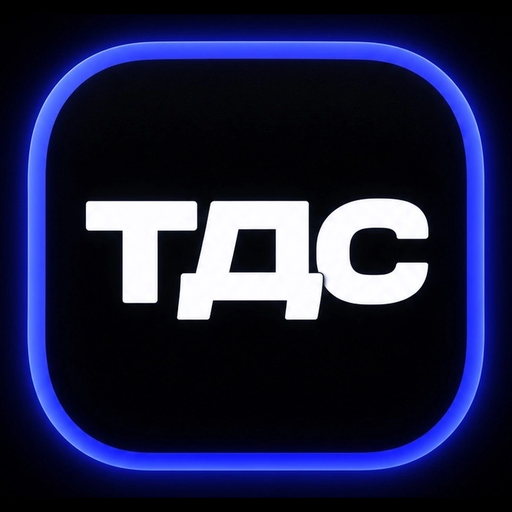
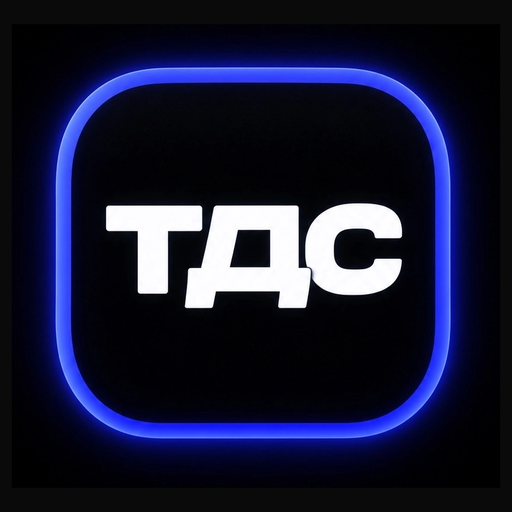
Логотип ТДС без обрезанного свечения, сборка 2026-11-06-33

diff --git a/support/index.html b/support/index.html
@@ -27,8 +27,8 @@
   <link rel="apple-touch-icon" href="/assets/img/apple-touch-icon.png">
   <link rel="manifest" href="/site.webmanifest">
   <link rel="preload" href="/assets/fonts/unbounded-cyrillic-wght-normal.woff2" as="font" type="font/woff2" crossorigin>
-  <link rel="stylesheet" href="/assets/css/site.css?v=2026-11-06-32">
-  <link rel="stylesheet" href="/assets/css/light.css?v=2026-11-06-32">
+  <link rel="stylesheet" href="/assets/css/site.css?v=2026-11-06-33">
+  <link rel="stylesheet" href="/assets/css/light.css?v=2026-11-06-33">
 </head>
 <body data-page="support">
   <div data-header></div>
@@ -134,10 +134,10 @@
 
   <div data-footer></div>
 
-  <script src="/assets/js/data.js?v=2026-11-06-32"></script>
-  <script src="/assets/js/map-data.js?v=2026-11-06-32"></script>
-  <script src="/assets/js/store.js?v=2026-11-06-32"></script>
-  <script src="/assets/js/i18n.js?v=2026-11-06-32"></script>
-  <script src="/assets/js/app.js?v=2026-11-06-32"></script>
+  <script src="/assets/js/data.js?v=2026-11-06-33"></script>
+  <script src="/assets/js/map-data.js?v=2026-11-06-33"></script>
+  <script src="/assets/js/store.js?v=2026-11-06-33"></script>
+  <script src="/assets/js/i18n.js?v=2026-11-06-33"></script>
+  <script src="/assets/js/app.js?v=2026-11-06-33"></script>
 </body>
 </html>

diff --git a/article/index.html b/article/index.html
@@ -27,8 +27,8 @@
   <link rel="apple-touch-icon" href="/assets/img/apple-touch-icon.png">
   <link rel="manifest" href="/site.webmanifest">
   <link rel="preload" href="/assets/fonts/unbounded-cyrillic-wght-normal.woff2" as="font" type="font/woff2" crossorigin>
-  <link rel="stylesheet" href="/assets/css/site.css?v=2026-11-06-32">
-  <link rel="stylesheet" href="/assets/css/light.css?v=2026-11-06-32">
+  <link rel="stylesheet" href="/assets/css/site.css?v=2026-11-06-33">
+  <link rel="stylesheet" href="/assets/css/light.css?v=2026-11-06-33">
 </head>
 <body data-page="article">
   <div data-header></div>
@@ -37,10 +37,10 @@
 
   <div data-footer></div>
 
-  <script src="/assets/js/data.js?v=2026-11-06-32"></script>
-  <script src="/assets/js/map-data.js?v=2026-11-06-32"></script>
-  <script src="/assets/js/store.js?v=2026-11-06-32"></script>
-  <script src="/assets/js/i18n.js?v=2026-11-06-32"></script>
-  <script src="/assets/js/app.js?v=2026-11-06-32"></script>
+  <script src="/assets/js/data.js?v=2026-11-06-33"></script>
+  <script src="/assets/js/map-data.js?v=2026-11-06-33"></script>
+  <script src="/assets/js/store.js?v=2026-11-06-33"></script>
+  <script src="/assets/js/i18n.js?v=2026-11-06-33"></script>
+  <script src="/assets/js/app.js?v=2026-11-06-33"></script>
 </body>
 </html>

diff --git a/profile/index.html b/profile/index.html
@@ -29,8 +29,8 @@
   <link rel="apple-touch-icon" href="/assets/img/apple-touch-icon.png">
   <link rel="manifest" href="/site.webmanifest">
   <link rel="preload" href="/assets/fonts/unbounded-cyrillic-wght-normal.woff2" as="font" type="font/woff2" crossorigin>
-  <link rel="stylesheet" href="/assets/css/site.css?v=2026-11-06-32">
-  <link rel="stylesheet" href="/assets/css/light.css?v=2026-11-06-32">
+  <link rel="stylesheet" href="/assets/css/site.css?v=2026-11-06-33">
+  <link rel="stylesheet" href="/assets/css/light.css?v=2026-11-06-33">
 </head>
 <body data-page="profile">
   <div data-header></div>
@@ -43,10 +43,10 @@
 
   <div data-footer></div>
 
-  <script src="/assets/js/data.js?v=2026-11-06-32"></script>
-  <script src="/assets/js/map-data.js?v=2026-11-06-32"></script>
-  <script src="/assets/js/store.js?v=2026-11-06-32"></script>
-  <script src="/assets/js/i18n.js?v=2026-11-06-32"></script>
-  <script src="/assets/js/app.js?v=2026-11-06-32"></script>
+  <script src="/assets/js/data.js?v=2026-11-06-33"></script>
+  <script src="/assets/js/map-data.js?v=2026-11-06-33"></script>
+  <script src="/assets/js/store.js?v=2026-11-06-33"></script>
+  <script src="/assets/js/i18n.js?v=2026-11-06-33"></script>
+  <script src="/assets/js/app.js?v=2026-11-06-33"></script>
 </body>
 </html>

diff --git a/join/index.html b/join/index.html
@@ -27,8 +27,8 @@
   <link rel="apple-touch-icon" href="/assets/img/apple-touch-icon.png">
   <link rel="manifest" href="/site.webmanifest">
   <link rel="preload" href="/assets/fonts/unbounded-cyrillic-wght-normal.woff2" as="font" type="font/woff2" crossorigin>
-  <link rel="stylesheet" href="/assets/css/site.css?v=2026-11-06-32">
-  <link rel="stylesheet" href="/assets/css/light.css?v=2026-11-06-32">
+  <link rel="stylesheet" href="/assets/css/site.css?v=2026-11-06-33">
+  <link rel="stylesheet" href="/assets/css/light.css?v=2026-11-06-33">
 </head>
 <body data-page="auth">
   <div data-header></div>
@@ -168,10 +168,10 @@
 
   <div data-footer></div>
 
-  <script src="/assets/js/data.js?v=2026-11-06-32"></script>
-  <script src="/assets/js/map-data.js?v=2026-11-06-32"></script>
-  <script src="/assets/js/store.js?v=2026-11-06-32"></script>
-  <script src="/assets/js/i18n.js?v=2026-11-06-32"></script>
-  <script src="/assets/js/app.js?v=2026-11-06-32"></script>
+  <script src="/assets/js/data.js?v=2026-11-06-33"></script>
+  <script src="/assets/js/map-data.js?v=2026-11-06-33"></script>
+  <script src="/assets/js/store.js?v=2026-11-06-33"></script>
+  <script src="/assets/js/i18n.js?v=2026-11-06-33"></script>
+  <script src="/assets/js/app.js?v=2026-11-06-33"></script>
 </body>
 </html>

diff --git a/news/index.html b/news/index.html
@@ -27,8 +27,8 @@
   <link rel="apple-touch-icon" href="/assets/img/apple-touch-icon.png">
   <link rel="manifest" href="/site.webmanifest">
   <link rel="preload" href="/assets/fonts/unbounded-cyrillic-wght-normal.woff2" as="font" type="font/woff2" crossorigin>
-  <link rel="stylesheet" href="/assets/css/site.css?v=2026-11-06-32">
-  <link rel="stylesheet" href="/assets/css/light.css?v=2026-11-06-32">
+  <link rel="stylesheet" href="/assets/css/site.css?v=2026-11-06-33">
+  <link rel="stylesheet" href="/assets/css/light.css?v=2026-11-06-33">
 </head>
 <body data-page="news">
   <div data-header></div>
@@ -105,10 +105,10 @@
 
   <div data-footer></div>
 
-  <script src="/assets/js/data.js?v=2026-11-06-32"></script>
-  <script src="/assets/js/map-data.js?v=2026-11-06-32"></script>
-  <script src="/assets/js/store.js?v=2026-11-06-32"></script>
-  <script src="/assets/js/i18n.js?v=2026-11-06-32"></script>
-  <script src="/assets/js/app.js?v=2026-11-06-32"></script>
+  <script src="/assets/js/data.js?v=2026-11-06-33"></script>
+  <script src="/assets/js/map-data.js?v=2026-11-06-33"></script>
+  <script src="/assets/js/store.js?v=2026-11-06-33"></script>
+  <script src="/assets/js/i18n.js?v=2026-11-06-33"></script>
+  <script src="/assets/js/app.js?v=2026-11-06-33"></script>
 </body>
 </html>

diff --git a/region/index.html b/region/index.html
@@ -27,8 +27,8 @@
   <link rel="apple-touch-icon" href="/assets/img/apple-touch-icon.png">
   <link rel="manifest" href="/site.webmanifest">
   <link rel="preload" href="/assets/fonts/unbounded-cyrillic-wght-normal.woff2" as="font" type="font/woff2" crossorigin>
-  <link rel="stylesheet" href="/assets/css/site.css?v=2026-11-06-32">
-  <link rel="stylesheet" href="/assets/css/light.css?v=2026-11-06-32">
+  <link rel="stylesheet" href="/assets/css/site.css?v=2026-11-06-33">
+  <link rel="stylesheet" href="/assets/css/light.css?v=2026-11-06-33">
 </head>
 <body data-page="region">
   <div data-header></div>
@@ -37,10 +37,10 @@
 
   <div data-footer></div>
 
-  <script src="/assets/js/data.js?v=2026-11-06-32"></script>
-  <script src="/assets/js/map-data.js?v=2026-11-06-32"></script>
-  <script src="/assets/js/store.js?v=2026-11-06-32"></script>
-  <script src="/assets/js/i18n.js?v=2026-11-06-32"></script>
-  <script src="/assets/js/app.js?v=2026-11-06-32"></script>
+  <script src="/assets/js/data.js?v=2026-11-06-33"></script>
+  <script src="/assets/js/map-data.js?v=2026-11-06-33"></script>
+  <script src="/assets/js/store.js?v=2026-11-06-33"></script>
+  <script src="/assets/js/i18n.js?v=2026-11-06-33"></script>
+  <script src="/assets/js/app.js?v=2026-11-06-33"></script>
 </body>
 </html>

diff --git a/admin/index.html b/admin/index.html
@@ -29,8 +29,8 @@
   <link rel="apple-touch-icon" href="/assets/img/apple-touch-icon.png">
   <link rel="manifest" href="/site.webmanifest">
   <link rel="preload" href="/assets/fonts/unbounded-cyrillic-wght-normal.woff2" as="font" type="font/woff2" crossorigin>
-  <link rel="stylesheet" href="/assets/css/site.css?v=2026-11-06-32">
-  <link rel="stylesheet" href="/assets/css/light.css?v=2026-11-06-32">
+  <link rel="stylesheet" href="/assets/css/site.css?v=2026-11-06-33">
+  <link rel="stylesheet" href="/assets/css/light.css?v=2026-11-06-33">
 </head>
 <body data-page="admin">
   <div data-header></div>
@@ -46,10 +46,10 @@
 
   <div data-footer></div>
 
-  <script src="/assets/js/data.js?v=2026-11-06-32"></script>
-  <script src="/assets/js/map-data.js?v=2026-11-06-32"></script>
-  <script src="/assets/js/store.js?v=2026-11-06-32"></script>
-  <script src="/assets/js/i18n.js?v=2026-11-06-32"></script>
-  <script src="/assets/js/app.js?v=2026-11-06-32"></script>
+  <script src="/assets/js/data.js?v=2026-11-06-33"></script>
+  <script src="/assets/js/map-data.js?v=2026-11-06-33"></script>
+  <script src="/assets/js/store.js?v=2026-11-06-33"></script>
+  <script src="/assets/js/i18n.js?v=2026-11-06-33"></script>
+  <script src="/assets/js/app.js?v=2026-11-06-33"></script>
 </body>
 </html>

diff --git a/write/index.html b/write/index.html
@@ -28,8 +28,8 @@
   <link rel="apple-touch-icon" href="/assets/img/apple-touch-icon.png">
   <link rel="manifest" href="/site.webmanifest">
   <link rel="preload" href="/assets/fonts/unbounded-cyrillic-wght-normal.woff2" as="font" type="font/woff2" crossorigin>
-  <link rel="stylesheet" href="/assets/css/site.css?v=2026-11-06-32">
-  <link rel="stylesheet" href="/assets/css/light.css?v=2026-11-06-32">
+  <link rel="stylesheet" href="/assets/css/site.css?v=2026-11-06-33">
+  <link rel="stylesheet" href="/assets/css/light.css?v=2026-11-06-33">
 </head>
 <body data-page="write">
   <div data-header></div>
@@ -42,10 +42,10 @@
 
   <div data-footer></div>
 
-  <script src="/assets/js/data.js?v=2026-11-06-32"></script>
-  <script src="/assets/js/map-data.js?v=2026-11-06-32"></script>
-  <script src="/assets/js/store.js?v=2026-11-06-32"></script>
-  <script src="/assets/js/i18n.js?v=2026-11-06-32"></script>
-  <script src="/assets/js/app.js?v=2026-11-06-32"></script>
+  <script src="/assets/js/data.js?v=2026-11-06-33"></script>
+  <script src="/assets/js/map-data.js?v=2026-11-06-33"></script>
+  <script src="/assets/js/store.js?v=2026-11-06-33"></script>
+  <script src="/assets/js/i18n.js?v=2026-11-06-33"></script>
+  <script src="/assets/js/app.js?v=2026-11-06-33"></script>
 </body>
 </html>

diff --git a/partners/index.html b/partners/index.html
@@ -27,8 +27,8 @@
   <link rel="apple-touch-icon" href="/assets/img/apple-touch-icon.png">
   <link rel="manifest" href="/site.webmanifest">
   <link rel="preload" href="/assets/fonts/unbounded-cyrillic-wght-normal.woff2" as="font" type="font/woff2" crossorigin>
-  <link rel="stylesheet" href="/assets/css/site.css?v=2026-11-06-32">
-  <link rel="stylesheet" href="/assets/css/light.css?v=2026-11-06-32">
+  <link rel="stylesheet" href="/assets/css/site.css?v=2026-11-06-33">
+  <link rel="stylesheet" href="/assets/css/light.css?v=2026-11-06-33">
 </head>
 <body data-page="partners">
   <div data-header></div>
@@ -184,9 +184,9 @@
 
   <div data-footer></div>
 
-  <script src="/assets/js/data.js?v=2026-11-06-32"></script>
-  <script src="/assets/js/store.js?v=2026-11-06-32"></script>
-  <script src="/assets/js/i18n.js?v=2026-11-06-32"></script>
-  <script src="/assets/js/app.js?v=2026-11-06-32"></script>
+  <script src="/assets/js/data.js?v=2026-11-06-33"></script>
+  <script src="/assets/js/store.js?v=2026-11-06-33"></script>
+  <script src="/assets/js/i18n.js?v=2026-11-06-33"></script>
+  <script src="/assets/js/app.js?v=2026-11-06-33"></script>
 </body>
 </html>

diff --git a/founders/index.html b/founders/index.html
@@ -27,8 +27,8 @@
   <link rel="apple-touch-icon" href="/assets/img/apple-touch-icon.png">
   <link rel="manifest" href="/site.webmanifest">
   <link rel="preload" href="/assets/fonts/unbounded-cyrillic-wght-normal.woff2" as="font" type="font/woff2" crossorigin>
-  <link rel="stylesheet" href="/assets/css/site.css?v=2026-11-06-32">
-  <link rel="stylesheet" href="/assets/css/light.css?v=2026-11-06-32">
+  <link rel="stylesheet" href="/assets/css/site.css?v=2026-11-06-33">
+  <link rel="stylesheet" href="/assets/css/light.css?v=2026-11-06-33">
 </head>
 <body data-page="founders">
   <div data-header></div>
@@ -97,9 +97,9 @@
 
   <div data-footer></div>
 
-  <script src="/assets/js/data.js?v=2026-11-06-32"></script>
-  <script src="/assets/js/store.js?v=2026-11-06-32"></script>
-  <script src="/assets/js/i18n.js?v=2026-11-06-32"></script>
-  <script src="/assets/js/app.js?v=2026-11-06-32"></script>
+  <script src="/assets/js/data.js?v=2026-11-06-33"></script>
+  <script src="/assets/js/store.js?v=2026-11-06-33"></script>
+  <script src="/assets/js/i18n.js?v=2026-11-06-33"></script>
+  <script src="/assets/js/app.js?v=2026-11-06-33"></script>
 </body>
 </html>

diff --git a/media-school/index.html b/media-school/index.html
@@ -27,8 +27,8 @@
   <link rel="apple-touch-icon" href="/assets/img/apple-touch-icon.png">
   <link rel="manifest" href="/site.webmanifest">
   <link rel="preload" href="/assets/fonts/unbounded-cyrillic-wght-normal.woff2" as="font" type="font/woff2" crossorigin>
-  <link rel="stylesheet" href="/assets/css/site.css?v=2026-11-06-32">
-  <link rel="stylesheet" href="/assets/css/light.css?v=2026-11-06-32">
+  <link rel="stylesheet" href="/assets/css/site.css?v=2026-11-06-33">
+  <link rel="stylesheet" href="/assets/css/light.css?v=2026-11-06-33">
 </head>
 <body data-page="school">
   <div data-header></div>
@@ -186,9 +186,9 @@
 
   <div data-footer></div>
 
-  <script src="/assets/js/data.js?v=2026-11-06-32"></script>
-  <script src="/assets/js/store.js?v=2026-11-06-32"></script>
-  <script src="/assets/js/i18n.js?v=2026-11-06-32"></script>
-  <script src="/assets/js/app.js?v=2026-11-06-32"></script>
+  <script src="/assets/js/data.js?v=2026-11-06-33"></script>
+  <script src="/assets/js/store.js?v=2026-11-06-33"></script>
+  <script src="/assets/js/i18n.js?v=2026-11-06-33"></script>
+  <script src="/assets/js/app.js?v=2026-11-06-33"></script>
 </body>
 </html>

diff --git a/about/index.html b/about/index.html
@@ -27,8 +27,8 @@
   <link rel="apple-touch-icon" href="/assets/img/apple-touch-icon.png">
   <link rel="manifest" href="/site.webmanifest">
   <link rel="preload" href="/assets/fonts/unbounded-cyrillic-wght-normal.woff2" as="font" type="font/woff2" crossorigin>
-  <link rel="stylesheet" href="/assets/css/site.css?v=2026-11-06-32">
-  <link rel="stylesheet" href="/assets/css/light.css?v=2026-11-06-32">
+  <link rel="stylesheet" href="/assets/css/site.css?v=2026-11-06-33">
+  <link rel="stylesheet" href="/assets/css/light.css?v=2026-11-06-33">
 </head>
 <body data-page="about">
   <div data-header></div>
@@ -199,9 +199,9 @@
 
   <div data-footer></div>
 
-  <script src="/assets/js/data.js?v=2026-11-06-32"></script>
-  <script src="/assets/js/store.js?v=2026-11-06-32"></script>
-  <script src="/assets/js/i18n.js?v=2026-11-06-32"></script>
-  <script src="/assets/js/app.js?v=2026-11-06-32"></script>
+  <script src="/assets/js/data.js?v=2026-11-06-33"></script>
+  <script src="/assets/js/store.js?v=2026-11-06-33"></script>
+  <script src="/assets/js/i18n.js?v=2026-11-06-33"></script>
+  <script src="/assets/js/app.js?v=2026-11-06-33"></script>
 </body>
 </html>
